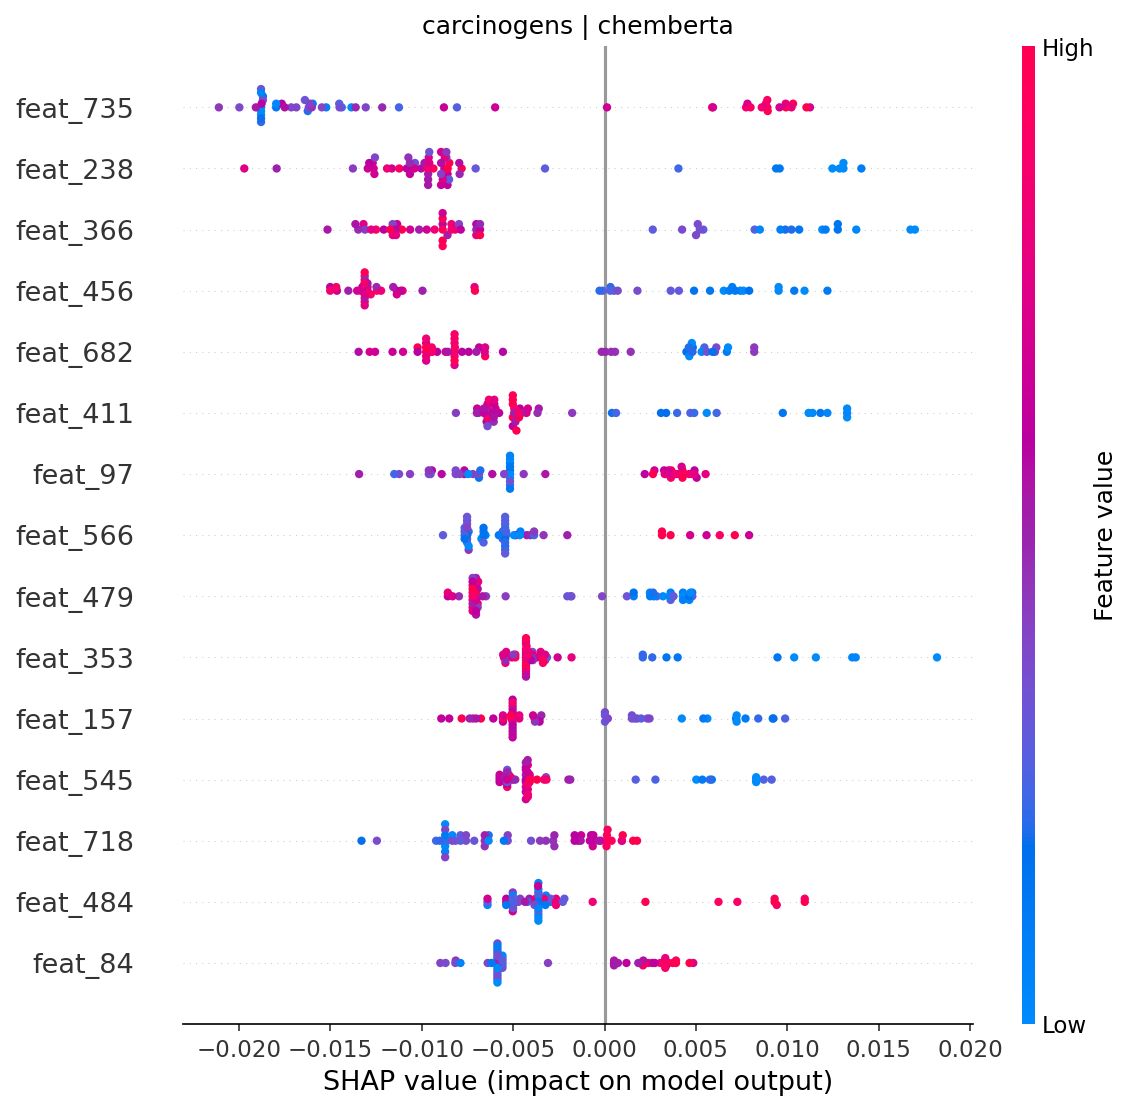
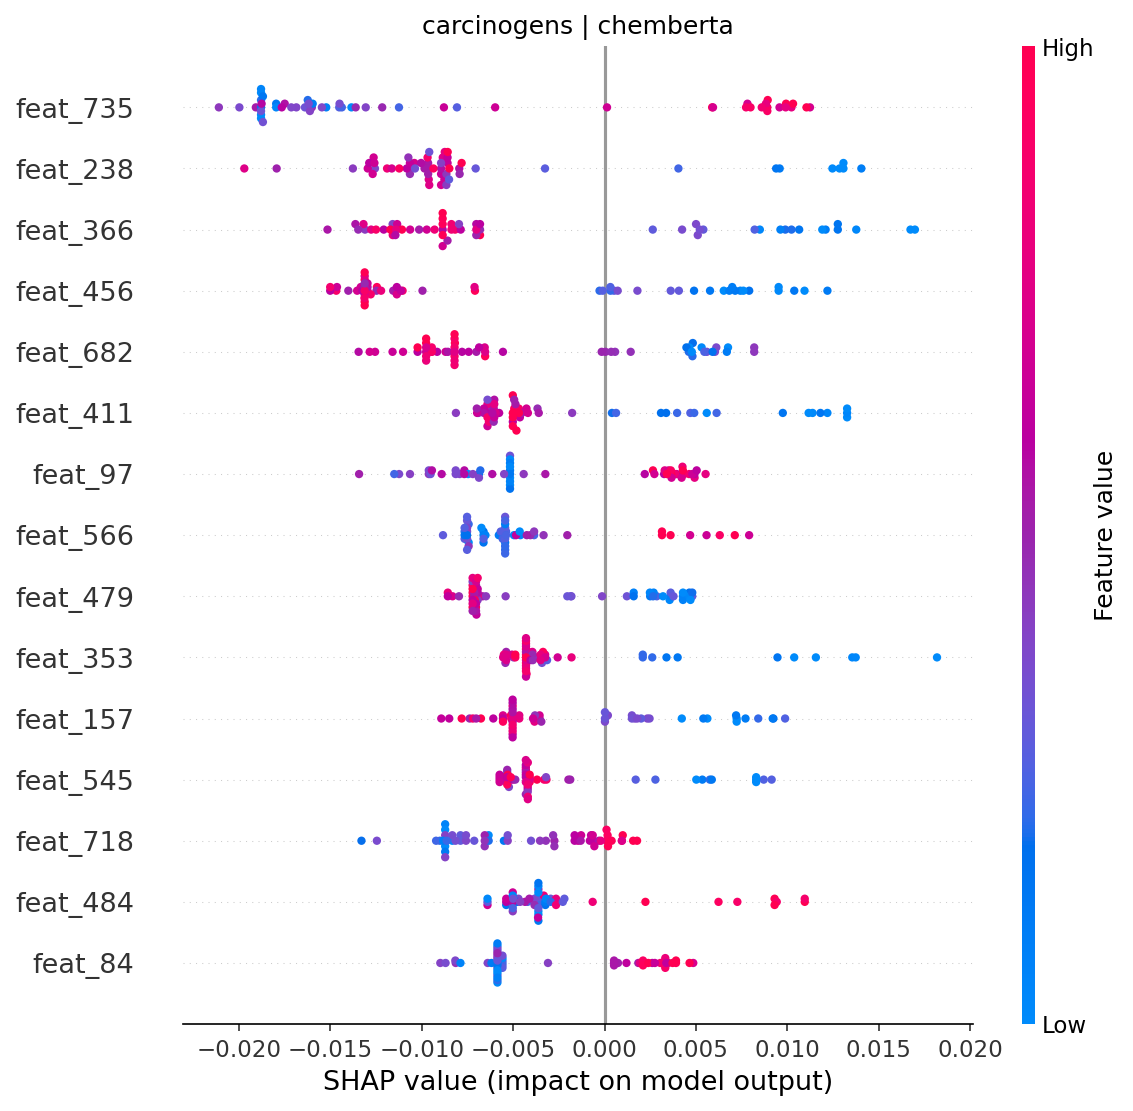
changed to the best models (xgb issue fixed), Drug_ID fixed, rerunned the script

diff --git a/explain_local.py b/explain_local.py
@@ -8,17 +8,17 @@ from sklearn.linear_model import LogisticRegression
 from sklearn.preprocessing import StandardScaler
 from sklearn.impute import SimpleImputer
 from sklearn.pipeline import Pipeline
-from xgboost import XGBClassifier
+from xgboost import XGBClassifier, DMatrix
 
 os.makedirs("results/shap/local", exist_ok=True)
 
 # Same best models with explain_shap.py
 best_models = {
     ("clintox",       "rdkit"):    {"mtype": "rf",      "params": {"n_estimators": 100, "min_samples_leaf": 2,  "max_features": 0.3,    "max_depth": None}},
-    ("clintox",       "chemberta"):{"mtype": "logistic", "params": {"C": 0.1, "penalty": "l2"}},
+    ("clintox",       "chemberta"):{"mtype": "xgb",     "params": {}},
     ("carcinogens",   "rdkit"):    {"mtype": "rf",      "params": {"n_estimators": 300, "min_samples_leaf": 10, "max_features": "sqrt", "max_depth": 10}},
     ("carcinogens",   "chemberta"):{"mtype": "rf",      "params": {"n_estimators": 100, "min_samples_leaf": 2,  "max_features": "log2", "max_depth": 3}},
-    ("skin_reaction", "rdkit"):    {"mtype": "rf",      "params": {"n_estimators": 300, "min_samples_leaf": 5,  "max_features": "log2", "max_depth": 3}},
+    ("skin_reaction", "rdkit"):    {"mtype": "xgb",     "params": {"n_estimators": 100, "max_depth": 3, "learning_rate": 0.05, "subsample": 1.0, "colsample_bytree": 0.8}},
     ("skin_reaction", "chemberta"):{"mtype": "rf",      "params": {"n_estimators": 500, "min_samples_leaf": 5,  "max_features": "log2", "max_depth": 3}},
 }
 
@@ -26,7 +26,7 @@ for (dataset, ftype), config in best_models.items():
     print(f"\n--- {dataset} | {ftype} ---")
 
     df = pd.read_csv(f"data/{dataset}_{ftype}.csv")
-    feat_cols = [c for c in df.columns if c not in ["Y", "split", "Drug", "Drug_ID"]]
+    feat_cols = [c for c in df.columns if c not in ["Y", "split", "Drug", "Drug_ID"] and pd.api.types.is_numeric_dtype(df[c])]
 
     train_df = df[df["split"] == "train"]
     test_df  = df[df["split"] == "test"].reset_index(drop=True)
@@ -59,7 +59,7 @@ for (dataset, ftype), config in best_models.items():
         clf = Pipeline([
             ("imputer", SimpleImputer(strategy="median")),
             ("model", XGBClassifier(scale_pos_weight=spw, random_state=42,
-                                    eval_metric="logloss", **params))
+                                    eval_metric="logloss", base_score=0.5, **params))
         ])
 
     clf.fit(X_train, y_train)
@@ -78,6 +78,11 @@ for (dataset, ftype), config in best_models.items():
         explainer   = shap.LinearExplainer(model, shap.maskers.Independent(X_test_imp))
         sv          = explainer.shap_values(X_test_imp)
         base_val    = explainer.expected_value
+    elif isinstance(model, XGBClassifier):
+        # XGBoost 2.0+ native SHAP (avoids SHAP library incompatibility)
+        contribs = model.get_booster().predict(DMatrix(X_test_imp), pred_contribs=True)
+        sv       = contribs[:, :-1]   # last column is bias term
+        base_val = float(contribs[0, -1])
     else:
         explainer   = shap.TreeExplainer(model)
         shap_values = explainer.shap_values(X_test_imp)

diff --git a/explain_shap.py b/explain_shap.py
@@ -8,17 +8,17 @@ from sklearn.linear_model import LogisticRegression
 from sklearn.preprocessing import StandardScaler
 from sklearn.impute import SimpleImputer
 from sklearn.pipeline import Pipeline
-from xgboost import XGBClassifier
+from xgboost import XGBClassifier, DMatrix
 
 os.makedirs("results/shap", exist_ok=True)
 
 # Best model per (dataset, feature_type)
 best_models = {
     ("clintox",       "rdkit"):    {"mtype": "rf",      "params": {"n_estimators": 100, "min_samples_leaf": 2,  "max_features": 0.3,    "max_depth": None}},
-    ("clintox",       "chemberta"):{"mtype": "logistic", "params": {"C": 0.1, "penalty": "l2"}},
+    ("clintox",       "chemberta"):{"mtype": "xgb",     "params": {}},
     ("carcinogens",   "rdkit"):    {"mtype": "rf",      "params": {"n_estimators": 300, "min_samples_leaf": 10, "max_features": "sqrt", "max_depth": 10}},
     ("carcinogens",   "chemberta"):{"mtype": "rf",      "params": {"n_estimators": 100, "min_samples_leaf": 2,  "max_features": "log2", "max_depth": 3}},
-    ("skin_reaction", "rdkit"):    {"mtype": "rf",      "params": {"n_estimators": 300, "min_samples_leaf": 5,  "max_features": "log2", "max_depth": 3}},
+    ("skin_reaction", "rdkit"):    {"mtype": "xgb",     "params": {"n_estimators": 100, "max_depth": 3, "learning_rate": 0.05, "subsample": 1.0, "colsample_bytree": 0.8}},
     ("skin_reaction", "chemberta"):{"mtype": "rf",      "params": {"n_estimators": 500, "min_samples_leaf": 5,  "max_features": "log2", "max_depth": 3}},
 }
 
@@ -26,7 +26,7 @@ for (dataset, ftype), config in best_models.items():
     print(f"\n--- {dataset} | {ftype} ---")
 
     df = pd.read_csv(f"data/{dataset}_{ftype}.csv")
-    feat_cols = [c for c in df.columns if c not in ["Y", "split", "Drug", "Drug_ID"]]
+    feat_cols = [c for c in df.columns if c not in ["Y", "split", "Drug", "Drug_ID"] and pd.api.types.is_numeric_dtype(df[c])]
 
     train_df = df[df["split"] == "train"]
     test_df  = df[df["split"] == "test"]
@@ -58,7 +58,7 @@ for (dataset, ftype), config in best_models.items():
         clf = Pipeline([
             ("imputer", SimpleImputer(strategy="median")),
             ("model", XGBClassifier(scale_pos_weight=spw, random_state=42,
-                                    eval_metric="logloss", **params))
+                                    eval_metric="logloss", base_score=0.5, **params))
         ])
 
     clf.fit(X_train, y_train)
@@ -76,6 +76,10 @@ for (dataset, ftype), config in best_models.items():
     if isinstance(model, LogisticRegression):
         explainer   = shap.LinearExplainer(model, shap.maskers.Independent(X_test_imp))
         sv          = explainer.shap_values(X_test_imp)
+    elif isinstance(model, XGBClassifier):
+        # XGBoost 2.0+ native SHAP (avoids SHAP library incompatibility)
+        contribs = model.get_booster().predict(DMatrix(X_test_imp), pred_contribs=True)
+        sv = contribs[:, :-1]  # last column is bias term
     else:
         explainer   = shap.TreeExplainer(model)
         shap_values = explainer.shap_values(X_test_imp)

diff --git a/tuning_models.py b/tuning_models.py
@@ -29,7 +29,7 @@ for fname in feature_types:
         valid_df = df[df["split"] == "valid"]
         test_df = df[df["split"] == "test"]
         
-        feat_cols = [c for c in df.columns if c not in ["Y", "split", "Drug"]]
+        feat_cols = [c for c in df.columns if c not in ["Y", "split", "Drug", "Drug_ID"] and pd.api.types.is_numeric_dtype(df[c])]
 
         X_train = np.clip(train_df[feat_cols].replace([np.inf, -np.inf], np.nan).values, -1e30, 1e30)
         y_train = train_df["Y"].values
